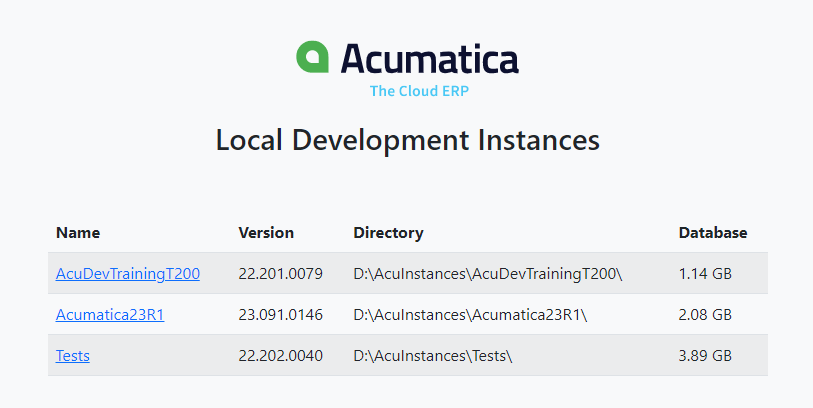
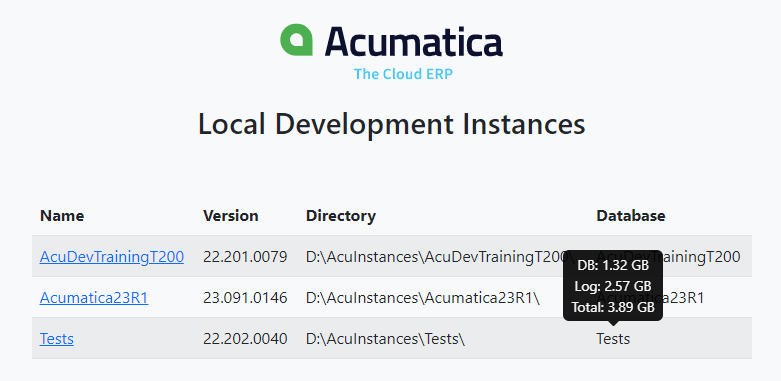
Added DB Name

diff --git a/index.js b/index.js
@@ -59,6 +59,7 @@ async function start() {
 
 				await sql.connect(`${connectionString};Encrypt=true;trustServerCertificate=true`);
 				const result = await sql.query(`SELECT 
+									dbName = DB_NAME(),
 									logSizeGb = CAST(SUM(CASE WHEN type_desc = 'LOG' THEN size END) * 8. / 1024 / 1024 AS DECIMAL(12,4)),
 									dbSizeGb = CAST(SUM(CASE WHEN type_desc = 'ROWS' THEN size END) * 8. / 1024 / 1024 AS DECIMAL(12,4)),
 									totalSizeGb = CAST(SUM(size) * 8. / 1024 / 1024 AS DECIMAL(12,4))
@@ -89,7 +90,7 @@ async function start() {
 			site?.db
 				? `<a data-bs-toggle="tooltip" data-bs-html="true" data-bs-title="DB: ${site?.db?.logSizeGb.toFixed(2)} GB<br>Log: ${site?.db?.dbSizeGb.toFixed(
 						2
-				  )} GB<br>Total: ${site?.db?.totalSizeGb.toFixed(2)} GB">${site?.db?.totalSizeGb.toFixed(2)} GB</a>`
+				  )} GB<br>Total: ${site?.db?.totalSizeGb.toFixed(2)} GB">${site?.db?.dbName}</a>`
 				: ''
 		}</td></tr>`;
 	});
@@ -104,11 +105,11 @@ async function start() {
 
 	// write files
 	await asyncForEach(files, async (file, i) => {
-		console.log(`Writing ${file.name}`);
+		console.log(`${colors.yellow('Writing')} ${file.name}...`);
 		await fsp.writeFile(`${config.htmlOutput}\\${file.name}`, file.data, { encoding: 'base64' });
 	});
 
-	console.log('Complete!');
+	console.log(colors.green('Complete! '));
 }
 
 async function asyncForEach(array, callback) {
